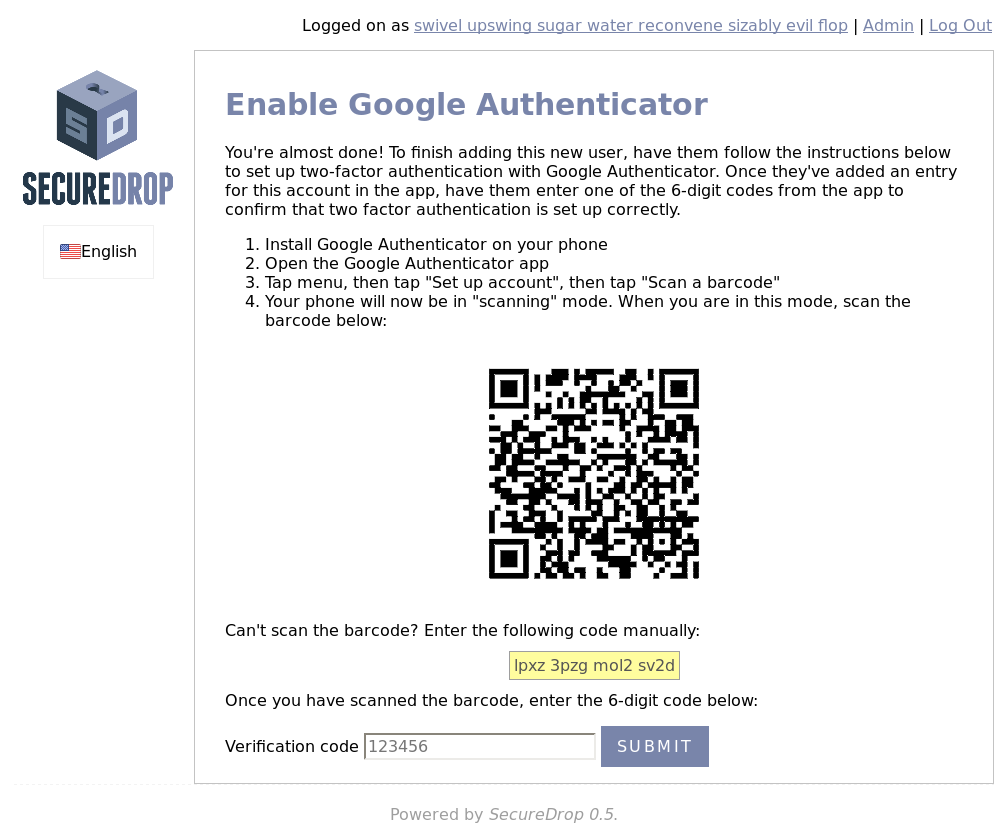
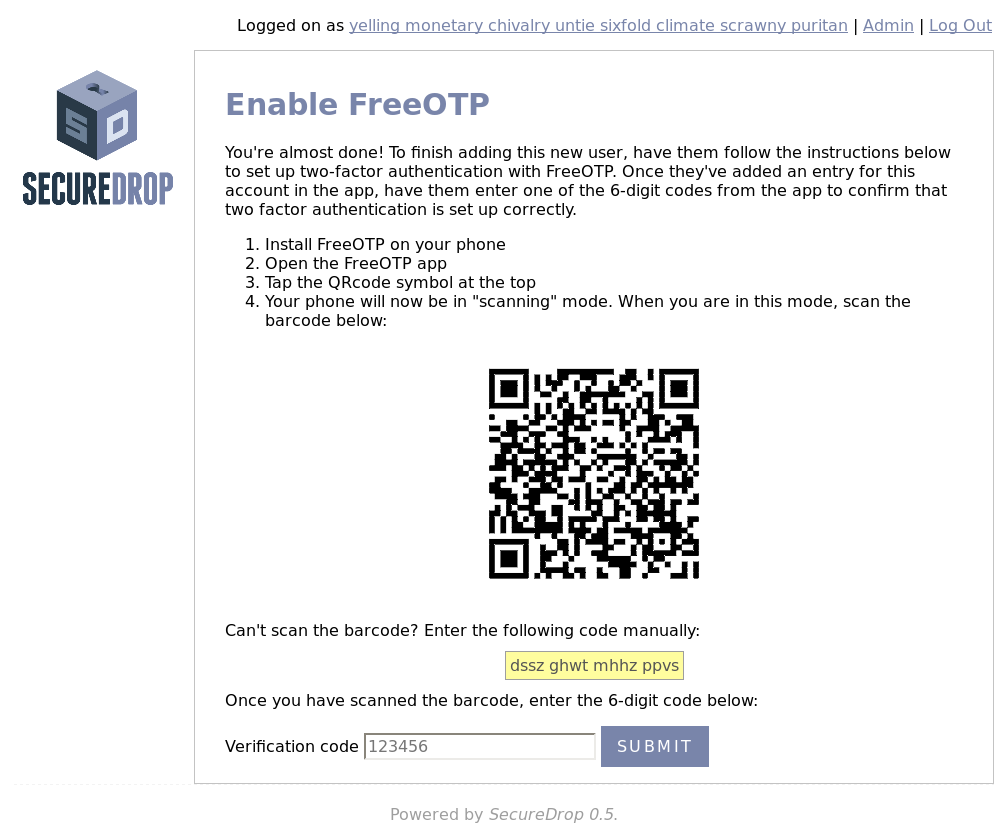
docs: replace Google Authenticator with FreeOTP

diff --git a/docs/admin.rst b/docs/admin.rst
@@ -2,7 +2,7 @@ Admin Guide
 ===========
 
 You (the admin) should have your own username and passphrase, plus
-two-factor authentication through either the Google Authenticator app
+two-factor authentication through either the FreeOTP app
 on your smartphone or a YubiKey.
 
 .. _Responsibilities:
@@ -104,42 +104,40 @@ create their own username. Once they’re done entering a
 username for themselves, have them write down their pre-generated diceware
 passphrase. Then, you will select whether you would like them
 to also be an admin (this allows them to add or delete other
-journalist accounts), and whether they will be using Google
-Authenticator or a YubiKey for two-factor authentication.
+journalist accounts), and whether they will be using FreeOTP
+or a YubiKey for two-factor authentication.
 
-.. tip:: Consider using the alternative `FreeOTP`_ application for mobile
-   two-factor authentication.
+FreeOTP
+~~~~~~~
 
-.. _`FreeOTP`: https://freeotp.github.io/
-
-Google Authenticator
-~~~~~~~~~~~~~~~~~~~~
-
-If they are using Google Authenticator for their two-factor, they can
+If they are using FreeOTP for their two-factor, they can
 just proceed to the next page:
 
-|Enable Google Authenticator|
+|Enable FreeOTP|
 
 At this point, the journalist should make sure they have downloaded the
-Google Authenticator app to their smartphone. It can be installed from
+FreeOTP app to their smartphone. It can be installed from
 the Apple Store for an iPhone or from the Google Play store for an
 Android phone. Once you download it and open it, the app does not
 require setup. It should prompt you to scan a barcode. The journalist
 should use their phone's camera to scan the barcode on the screen.
 
-If they have difficulty scanning the barcode, they can use the "Manual
-Entry" option and use their phone's keyboard to input the random
-characters that are highlighted in yellow.
+If they have difficulty scanning the barcode, they can tap on the icon
+at the top that shows a plus and the symbol of a key and use their
+phone's keyboard to input the random characters that are highlighted
+in yellow, in the ``Secret`` input field, without white space.
 
-Inside the Google Authenticator app, a new entry for this account will
+Inside the FreeOTP app, a new entry for this account will
 appear on the main screen, with a six digit number that recycles to a
 new number every thirty seconds. Enter the six digit number under
 “Verification code” at the bottom of the screen, and hit
 enter.
 
-If Google Authenticator was set up correctly, you will be redirected
+If FreeOTP was set up correctly, you will be redirected
 back to the Admin Interface and will see a flashed message that says
 "Two factor token successfully verified for user *new username*!".
+
+.. include:: includes/otp-app.txt
 
 YubiKey
 ~~~~~~~
@@ -172,7 +170,7 @@ possession when they attempt to log in to SecureDrop.
   image:: images/manual/screenshots/journalist-admin_interface_index.png
 .. |Add a new user|
   image:: images/manual/screenshots/journalist-admin_add_user_totp.png
-.. |Enable Google Authenticator|
+.. |Enable FreeOTP|
   image:: images/manual/screenshots/journalist-admin_new_user_two_factor_totp.png
 .. |Enable YubiKey|
   image:: images/manual/screenshots/journalist-admin_add_user_hotp.png

diff --git a/docs/servers_2fa.rst b/docs/servers_2fa.rst
@@ -1,0 +1,31 @@
+2FA for app and mon servers
+===========================
+
+As part of the SecureDrop installation process, you will need to set
+up two-factor authentication (2FA) using the FreeOTP app for both the
+*Application* and *Monitor Servers*.
+
+Connect to each of the servers using ``ssh`` and run ``google-authenticator``.
+Follow the prompts, saying "yes" when prompted for a "yes/no" response. When
+you've finished, open the FreeOTP app on your smartphone and
+follow the steps below.
+
+.. include:: includes/otp-app.txt
+
+- Tap the QRcode symbol at the top
+- Scan the barcode using your phone's camera
+
+A new entry will automatically be added to the list. If you wish to edit
+this entry and give it a new name, do the following:
+
+- Tap on the three vertical dots at the right of the line
+- Select ``Edit``
+
+To get a two-factor authentication token tap on the line. Six digits
+will show: they are the token. A timer to the left shows how much of
+the 30 seconds remains before it expires. If it is about to expire you
+can just wait and a new token will display and you'll have 30 seconds
+to use it.
+
+Once you've properly set up the first server, repeat these steps again
+on the other.

diff --git a/docs/passphrases.rst b/docs/passphrases.rst
@@ -37,9 +37,12 @@ performed by the admin will require the following set of passphrases:
    -  The Hidden Services values required to connect to the App and
       *Monitor Server*.
 
-The admin will also need to have an Android or iOS device with the
-Google Authenticator app installed. This means the admin will also have
-the following two credentials:
+The admin will also need to have a way to generate two-factor
+authentication tokens.
+
+.. include:: includes/otp-app.txt
+
+And the admin will also have the following two credentials:
 
 -  The secret code for the *Application Server*'s two-factor authentication.
 -  The secret code for the *Monitor Server*'s two-factor authentication.
@@ -61,7 +64,7 @@ will require the following set of passphrases:
    -  The journalist's personal GPG key.
 
 The journalist will also need to have a two-factor authenticator, such
-as an Android or iOS device with Google Authenticator installed, or a
+as an Android or iOS device with FreeOTP installed, or a
 YubiKey. This means the journalist will also have the following
 credential:
 

diff --git a/docs/terminology.rst b/docs/terminology.rst
@@ -88,7 +88,7 @@ Admin Workstation
 The *Admin Workstation* is a machine that the system admin can
 use to connect to the *Application Server* and the *Monitor Server* using Tor
 and SSH. The admin will also need to have an Android or iOS
-device with the Google Authenticator app installed.
+device with the FreeOTP app installed.
 
 Secure Viewing Station
 ----------------------
@@ -116,10 +116,10 @@ systems. These instances use the standard TOTP and/or HOTP algorithms,
 and so a variety of devices can be used to provide two-factor
 authentication for devices. We recommend using one of:
 
--  An Android or iOS device with `Google
-   Authenticator <https://support.google.com/accounts/answer/1066447?hl=en>`__
-   installed
+-  FreeOTP `for Android <https://play.google.com/store/apps/details?id=org.fedorahosted.freeotp>`__ or `for iOS <https://itunes.apple.com/us/app/freeotp-authenticator/id872559395>`__ installed
 -  A `YubiKey <https://www.yubico.com/products/yubikey-hardware/>`__
+
+.. include:: includes/otp-app.txt
 
 Transfer Device
 ---------------

diff --git a/docs/training_schedule.rst b/docs/training_schedule.rst
@@ -88,7 +88,7 @@ Participants: journalists and admins
 -  Check access to previously created Tails USB
 -  Generate personnel GPG keys
 -  Setup KeyPassX manager (one for *SVS*, one for personnel Tails)
--  Options between YubiKey/Google Authenticator app for 2FA (SSH,
+-  Options between YubiKey/FreeOTP app for 2FA (SSH,
    Journalist Interface, FDE and password managers)
 -  Secure-deleting and difference between wipe and erase free space on
    Tails, and when to use each
@@ -112,7 +112,7 @@ Participants: admins
 -  Check access to previously created Tails USB
 -  Generate personnel GPG keys
 -  Setup KeyPassX manager (one for *SVS*, one for personnel Tails)
--  Options between YubiKey/Google Authenticator app for 2FA (SSH,
+-  Options between YubiKey/FreeOTP app for 2FA (SSH,
    Journalist Interface, FDE and password managers)
 -  Secure-deleting and difference between wipe and erase free space on
    Tails, and when to use each

diff --git a/docs/test_the_installation.rst b/docs/test_the_installation.rst
@@ -29,13 +29,13 @@ Log in to both servers via TTY
 All access to the SecureDrop servers should be performed over SSH from the
 *Admin Workstation*. To aid in troubleshooting, physical logins via TTY are
 supported, but require 2FA to be configured. See the :doc:`2FA setup guide
-<google_authenticator>` for information how to enable console logins.
+<servers_2fa>` for information how to enable console logins.
 
 Test the 2FA functionality by connecting a keyboard and display to each server,
 then login with the Admin username. You will need:
 
 * sudo passphrase for the Admin username
-* TOTP code from a 2FA app such as Google Authenticator or FreeOTP
+* TOTP code from a 2FA app such as FreeOTP
 
 Confirm that logging in via TTY prompts for a 2FA code, and that the code
 generated by your smartphone app permits logging in to an interactive shell.

diff --git a/docs/hardware.rst b/docs/hardware.rst
@@ -138,10 +138,12 @@ needs a two-factor authenticator. We currently support two options for
 two-factor authentication:
 
 * Your existing smartphone with an app that computes TOTP codes
-  (e.g. `Google Authenticator <https://support.google.com/accounts/answer/1066447?hl=en>`__).
+  (e.g. FreeOTP `for Android <https://play.google.com/store/apps/details?id=org.fedorahosted.freeotp>`__ and `for iOS <https://itunes.apple.com/us/app/freeotp-authenticator/id872559395>`__).
 
 * A dedicated hardware dongle that computes HOTP codes (e.g. a
   `YubiKey <https://www.yubico.com/products/yubikey-hardware/yubikey/>`__).
+
+.. include:: includes/otp-app.txt
 
 **Transfer Device(s)**: You need a mechanism to transfer encrypted submissions
 from the **Journalist Workstation** to the *SVS* to decrypt and view them. The

diff --git a/docs/configure_admin_workstation_post_install.rst b/docs/configure_admin_workstation_post_install.rst
@@ -69,4 +69,4 @@ Set up two-factor authentication for the Admin
 The SecureDrop servers should always be accessed over SSH from the Admin
 Workstation. In the event of a connectivity problem, Admins can log in
 directly to the servers by attaching a keyboard and a display. In order to do
-so, you will need to :doc:`configure 2FA TOTP access <google_authenticator>`.
+so, you will need to :doc:`configure 2FA TOTP access <servers_2fa>`.

diff --git a/docs/index.rst b/docs/index.rst
@@ -68,7 +68,7 @@ anonymous sources.
 
    getting_the_most_out_of_securedrop
    what_makes_securedrop_unique
-   google_authenticator
+   servers_2fa
    logging
    ossec_alerts
    tails_guide
